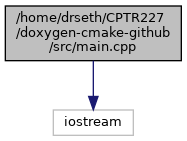
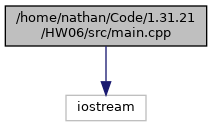
Initial commit

Changed region(s): [[0.0, 0.0236, 0.9893, 0.9685]]

diff --git a/docs/main_8cpp.html b/docs/main_8cpp.html
@@ -5,7 +5,7 @@
 <meta http-equiv="X-UA-Compatible" content="IE=9"/>
 <meta name="generator" content="Doxygen 1.8.17"/>
 <meta name="viewport" content="width=device-width, initial-scale=1"/>
-<title>aardvark: /home/drseth/CPTR227/doxygen-cmake-github/src/main.cpp File Reference</title>
+<title>aardvark: /home/nathan/Code/1.31.21/HW06/src/main.cpp File Reference</title>
 <link href="tabs.css" rel="stylesheet" type="text/css"/>
 <script type="text/javascript" src="jquery.js"></script>
 <script type="text/javascript" src="dynsections.js"></script>
@@ -79,10 +79,10 @@ $(function() {
 </div><div class="textblock"><div class="dynheader">
 Include dependency graph for main.cpp:</div>
 <div class="dyncontent">
-<div class="center"><img src="main_8cpp__incl.png" border="0" usemap="#_2home_2drseth_2CPTR227_2doxygen-cmake-github_2src_2main_8cpp" alt=""/></div>
-<map name="_2home_2drseth_2CPTR227_2doxygen-cmake-github_2src_2main_8cpp" id="_2home_2drseth_2CPTR227_2doxygen-cmake-github_2src_2main_8cpp">
-<area shape="rect" title="This is a test of CMake, doxygen, and GitHub." alt="" coords="5,5,181,61"/>
-<area shape="rect" title=" " alt="" coords="53,109,133,136"/>
+<div class="center"><img src="main_8cpp__incl.png" border="0" usemap="#_2home_2nathan_2Code_21_831_821_2HW06_2src_2main_8cpp" alt=""/></div>
+<map name="_2home_2nathan_2Code_21_831_821_2HW06_2src_2main_8cpp" id="_2home_2nathan_2Code_21_831_821_2HW06_2src_2main_8cpp">
+<area shape="rect" title="This is a test of CMake, doxygen, and GitHub." alt="" coords="5,5,207,47"/>
+<area shape="rect" title=" " alt="" coords="66,95,146,121"/>
 </map>
 </div>
 </div>

diff --git a/docs/main_8cpp_source.html b/docs/main_8cpp_source.html
@@ -5,7 +5,7 @@
 <meta http-equiv="X-UA-Compatible" content="IE=9"/>
 <meta name="generator" content="Doxygen 1.8.17"/>
 <meta name="viewport" content="width=device-width, initial-scale=1"/>
-<title>aardvark: /home/drseth/CPTR227/doxygen-cmake-github/src/main.cpp Source File</title>
+<title>aardvark: /home/nathan/Code/1.31.21/HW06/src/main.cpp Source File</title>
 <link href="tabs.css" rel="stylesheet" type="text/css"/>
 <script type="text/javascript" src="jquery.js"></script>
 <script type="text/javascript" src="dynsections.js"></script>

diff --git a/docs/dir_68267d1309a1af8e8297ef4c3efbcdba.html b/docs/dir_68267d1309a1af8e8297ef4c3efbcdba.html
@@ -5,7 +5,7 @@
 <meta http-equiv="X-UA-Compatible" content="IE=9"/>
 <meta name="generator" content="Doxygen 1.8.17"/>
 <meta name="viewport" content="width=device-width, initial-scale=1"/>
-<title>aardvark: /home/drseth/CPTR227/doxygen-cmake-github/src Directory Reference</title>
+<title>aardvark: /home/nathan/Code/1.31.21/HW06/src Directory Reference</title>
 <link href="tabs.css" rel="stylesheet" type="text/css"/>
 <script type="text/javascript" src="jquery.js"></script>
 <script type="text/javascript" src="dynsections.js"></script>

diff --git a/src/main.cpp b/src/main.cpp
@@ -2,8 +2,8 @@
  * @file main.cpp
  * @brief This is a test of CMake, doxygen, and GitHub.
  * @details This is the long brief at the top of main.cpp.
- * @author Seth McNeill
- * @date 1/28/2021
+ * @author Nathan Quick
+ * @date 1/31/2021
  * 
  */
 
